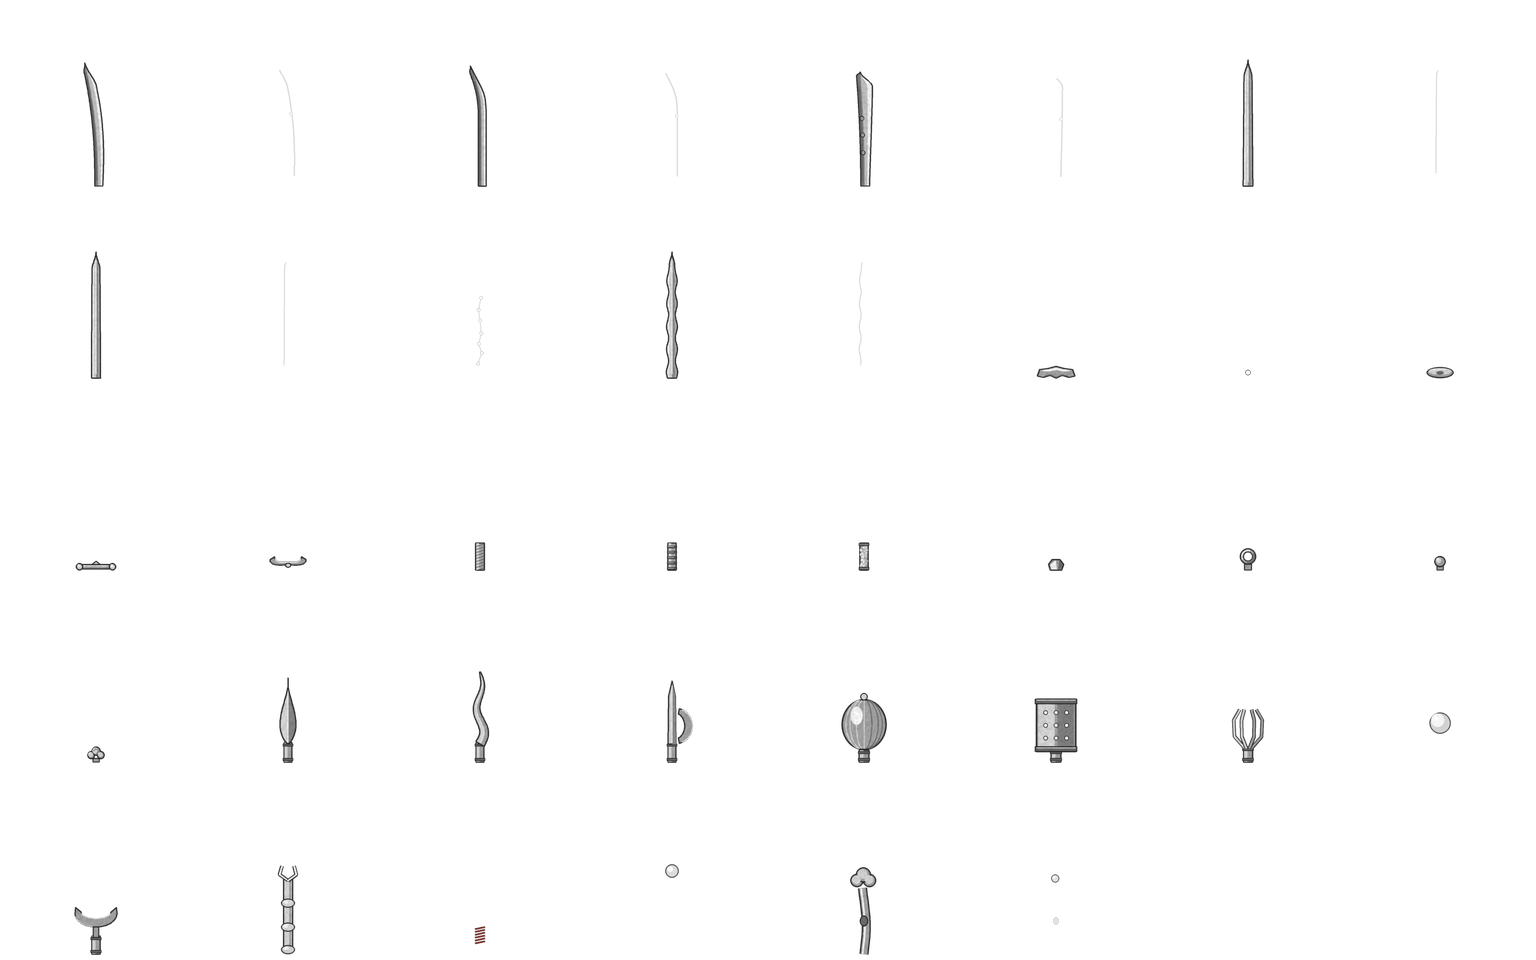
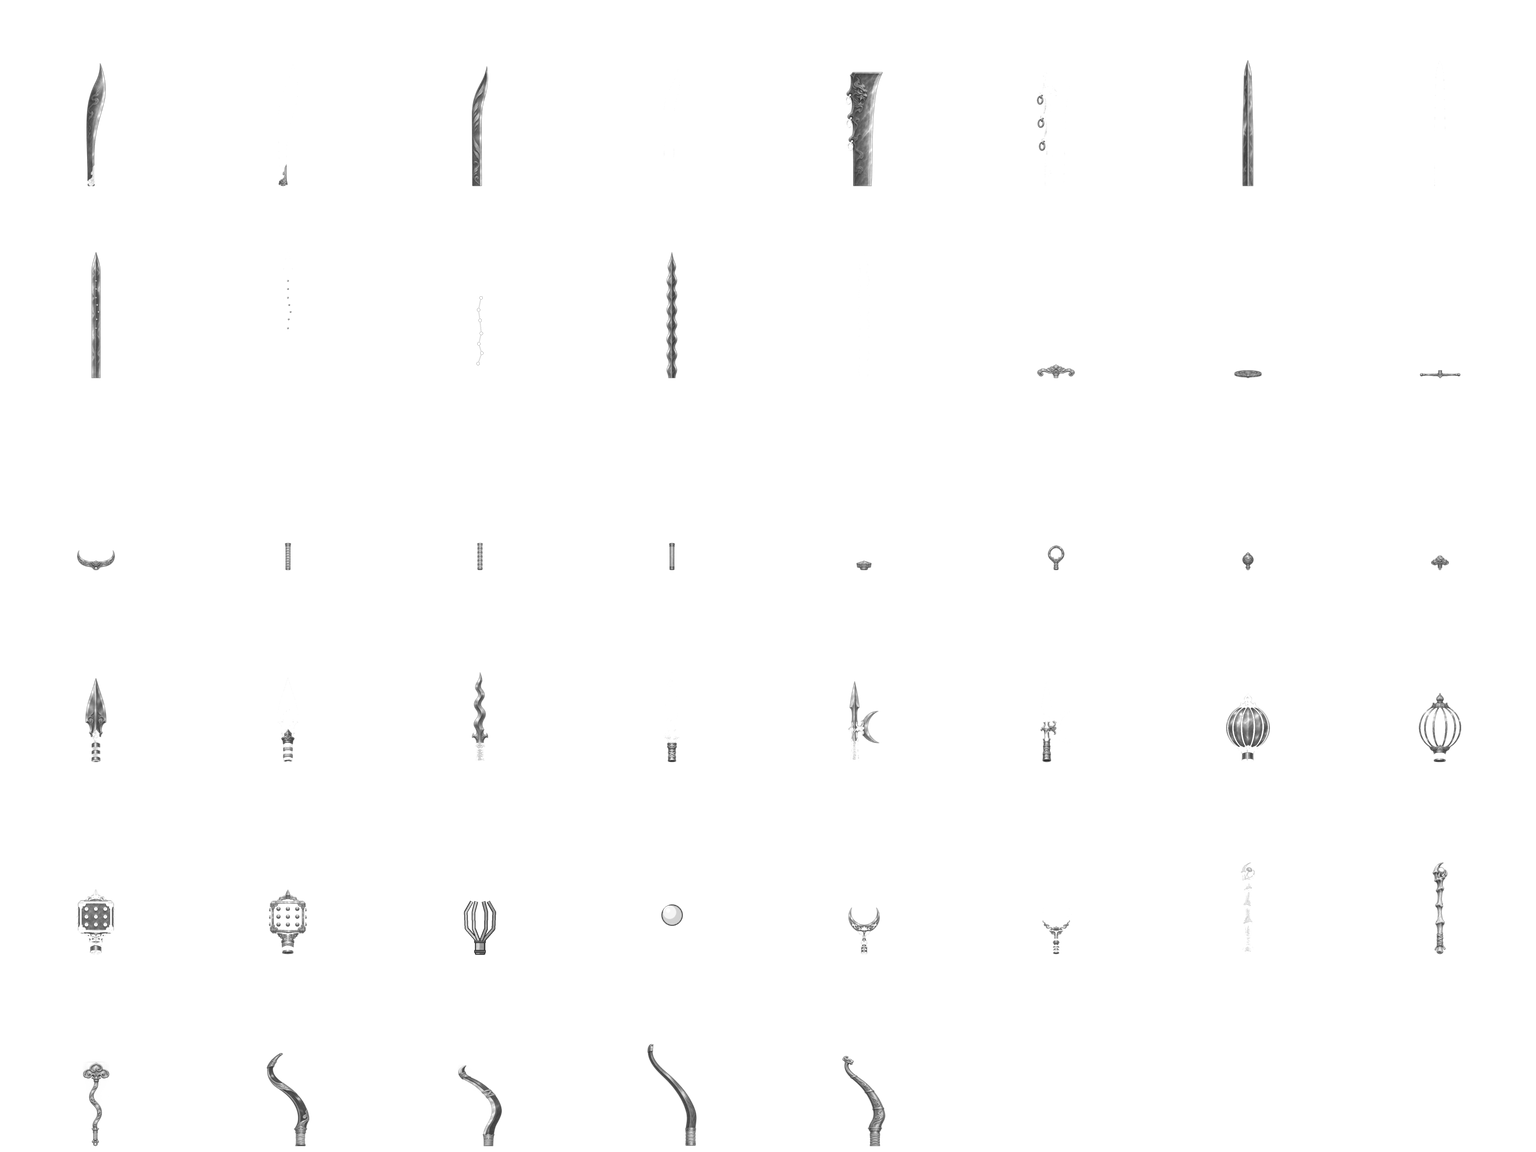
弓也由零件拼成；兵器零件换成 ChatGPT 出的原画
弓分四种弓臂：反曲弓、角弓（弓腹贴一条牛角）、长弓、云纹弓。只画上半张，下半张沿弓把镜像，
握把缠绳，弦挂在两头弓弰上；弓臂按五行上漆（木为本色、水为黑漆、火为朱漆……）。弰尖须落在
弓把后面，否则弦会跑到弓前头。原画长弓仍是选项，只合火、金两行。

29 件零件改用原画：art/side/gen_parts.sh 调 ChatGPT 桌面版自带的 codex，按 parts-prompts.json
逐件出图（走 ChatGPT 登录，不用 API key），存进 art/side/source/parts。pack_parts.py 把原画抠到边界、
切掉刃根多出的刀茎、按零件尺寸缩放（护手和柄首按宽度对齐），拉开明暗后转灰度，再按饱和度把描金
和铜箍分到饰色层，钢与金在染色后仍是两种材质。弓臂出图偏细，横向加宽。宝珠杖头要按五行发光，
仍用脚本画的；七星剑的星点照样叠在原画刃上。

diff --git a/mobile/art/side/pack_parts.py b/mobile/art/side/pack_parts.py
@@ -512,8 +512,92 @@ def wands():
     out["ruyi_wand"] = {"layers": [(pen, "trim"), (glow, "glow")], "length": 56.0, "width": 9.0, "hold": 9.0}
     return out
 
+# ---------- 弓 ----------
 
-def painted(name, spec):
+def limb(pen, bend, length, width, start, end, fill_back, fill_belly, edge=True):
+    """弓臂的一段：从握把正中往上长，bend(t) 是横向偏移（负值弯向弓弦一侧），width(t) 是半宽。
+    外侧（+u，背向射手）受光，内侧（弓腹）背光。只画 t 在 [start, end] 这一段。"""
+    cx, base = BASE
+    center = lambda t: (cx + bend(t), base - length * t)
+    t0, t1 = start, end
+    sub = lambda t: center(t0 + (t1 - t0) * t)
+    w = lambda t: width(t0 + (t1 - t0) * t)
+    lefts, rights, mids = strip(sub, w, w, 60)
+    outline = lefts + rights[::-1]
+    pen.poly(outline, fill_belly)
+    pen.poly(inset(lefts, mids, 0.1) + inset(rights, mids, 0.95)[::-1], fill_back)
+    pen.line(inset(rights, mids, 0.5)[2:-2], HIGH, 0.45)
+    if edge:
+        pen.line(outline + [outline[0]], INK, 0.7)
+    return center
+
+
+def bows():
+    cx, base = BASE
+    out = {}
+
+    def make(name, length, bend, width, ear_from, ear_width, extras=None, belly=False, likes_cloud=False):
+        body, horn, ears = Pen(), Pen(), Pen()
+        center = limb(body, bend, length, width, 0.0, ear_from + 0.02, LIGHT, MID)
+        if belly:
+            # 角弓的弓腹贴一条牛角，浅色，单独一层按骨色染。
+            limb(horn, lambda t: bend(t) - width(t) * 0.55, length, lambda t: width(t) * 0.42,
+                0.1, ear_from, HIGH, LIGHT, edge=False)
+        limb(ears, bend, length, ear_width, ear_from, 1.0, LIGHT, MID)
+        tip = center(1.0)
+        if likes_cloud:
+            # 云头弓弰：弰尖卷成一个小涡。
+            ears.ellipse((tip[0] + 1.6, tip[1] + 0.4), 2.6, 2.6, MID, INK, 0.7)
+            ears.ellipse((tip[0] + 1.6, tip[1] + 0.4), 1.2, 1.2, HIGH)
+        # 弦扣：弰尖一道刻口。
+        ears.line([(tip[0] - 1.6, tip[1] + 2.4), (tip[0] + 0.4, tip[1] + 1.4)], INK, 0.6)
+        if extras:
+            extras(body, center)
+        layers = [(body, "wood")]
+        if belly:
+            layers.append((horn, "bone"))
+        layers.append((ears, "trim"))
+        reach = max(abs(bend(i / 40)) + width(i / 40) for i in range(41)) + 3.0
+        out[name] = {"layers": layers, "length": length + 2.0, "width": reach, "tip": tip}
+
+    def bands(pen, center):
+        for t in (0.26, 0.42, 0.58):
+            x, y = center(t)
+            pen.line([(x - 3.4, y + 0.6), (x + 3.4, y - 0.6)], INK, 1.6)
+            pen.line([(x - 3.0, y + 0.6), (x + 3.0, y - 0.6)], HIGH, 0.7)
+
+    # 反曲弓：弓臂往弦一侧弯，到弓弰再往前折出去。弰尖仍得落在弓把后面（弦一侧），不然弦会跑到弓前头。
+    make("fanqu", 60.0, lambda t: -18.0 * t ** 2 + 11.0 * max(0.0, (t - 0.78) / 0.22) ** 1.8,
+        lambda t: 3.4 - 1.6 * t if t > 0.14 else 3.6, 0.78, lambda t: 1.9 - 0.8 * (t - 0.78) / 0.22)
+    # 角弓：短而反曲得狠，弓腹贴一条牛角。
+    make("jiao", 52.0, lambda t: -17.0 * t ** 2 + 11.0 * max(0.0, (t - 0.70) / 0.30) ** 1.6,
+        lambda t: 3.8 - 1.8 * t if t > 0.14 else 4.0, 0.72, lambda t: 2.0 - 0.9 * (t - 0.70) / 0.30, belly=True)
+    # 长弓：一道平平的弧，弰头只包一小截。
+    make("chang", 66.0, lambda t: -12.0 * t ** 2, lambda t: 3.0 - 1.4 * t if t > 0.12 else 3.3, 0.93,
+        lambda t: 1.7 - 0.5 * (t - 0.93) / 0.07)
+    # 云纹弓：反曲弓的身形，弓臂缠三道箍，弰头卷云。
+    make("yun", 58.0, lambda t: -16.0 * t ** 2 + 10.0 * max(0.0, (t - 0.80) / 0.20) ** 1.8,
+        lambda t: 3.5 - 1.6 * t if t > 0.14 else 3.7, 0.80, lambda t: 1.9 - 0.7 * (t - 0.80) / 0.20,
+        extras=bands, likes_cloud=True)
+    return out
+
+
+def trim_stub(art):
+    """出图常在刃根多带一截细细的刀茎，接到护手里会压在握柄上：从底往上，比刃根窄一截的行都切掉。"""
+    alpha = np.asarray(art.getchannel("A")) > 128
+    widths = alpha.sum(1)
+    rows = np.where(widths > 0)[0]
+    if rows.size == 0:
+        return art
+    lower = widths[rows[int(rows.size * 0.7)]:rows[-1] + 1]
+    reference = np.median(lower[lower > 0])
+    cut = rows[-1]
+    while cut > rows[0] and widths[cut] < reference * 0.8:
+        cut -= 1
+    return art.crop((0, 0, art.width, cut + 1))
+
+
+def painted(name, kind, spec):
     """读 source/parts/<name>.png 顶替脚本画的零件；没有就返回 None。"""
     path = HERE / "source" / "parts" / (name + ".png")
     if not path.exists():
@@ -524,20 +608,47 @@ def painted(name, spec):
         print("原画零件是空的，仍用脚本画的：%s" % path.name)
         return None
     art = art.crop(bounds)
-    height = round(spec["length"] * SCALE)
-    width = max(1, min(round(art.width * height / art.height), (SPACE - 4) * SCALE))
+    if kind == "blade":
+        art = trim_stub(art)
+    if kind in ("guard", "pommel"):
+        # 护手、柄首又扁又宽，按宽度对齐，厚度随原画；拼的时候刃和握柄按新的厚度接。
+        width = round(spec["width"] * 2 * SCALE)
+        height = max(1, round(art.height * width / art.width))
+        spec["length"] = height / SCALE
+    else:
+        height = round(spec["length"] * SCALE)
+        # 出图的弓臂都偏细，缩到游戏里只剩一根线：横向加宽一些。
+        stretch = 1.6 if kind == "bow" else 1.0
+        width = max(1, min(round(art.width * height / art.height * stretch), (SPACE - 4) * SCALE))
     art = art.resize((width, height), Image.LANCZOS)
     pixels = np.asarray(art).astype(np.float32)
     light = pixels[..., 0] * 0.2126 + pixels[..., 1] * 0.7152 + pixels[..., 2] * 0.0722
     solid = pixels[..., 3] > 128
+    # 拉开明暗：最暗的一小撮压到 60，最亮的推到 245。深色漆面（朱漆弓、黑漆杆）不拉的话，乘上漆色就只剩一团黑。
+    bottom = np.percentile(light[solid], 4) if solid.any() else 0.0
     top = np.percentile(light[solid], 99) if solid.any() else 255.0
-    light = np.clip(light * (245.0 / max(top, 1.0)), 0, 255)
-    gray_art = np.dstack([light, light, light, pixels[..., 3]]).astype(np.uint8)
-    pen = Pen()
-    pen.image.alpha_composite(Image.fromarray(gray_art), (round(BASE[0] * SCALE - width / 2), round(BASE[1] * SCALE) - height))
+    light = np.clip(60.0 + (light - bottom) * (185.0 / max(top - bottom, 1.0)), 0, 255)
+    alpha = pixels[..., 3]
+    # 钢、骨做底的零件，原画里描金、铜箍那些有色的地方分出来按饰色染，不然一件零件只剩一种材质。
+    tint = spec["layers"][0][1]
+    split = tint in ("steel", "bone")
+    if split:
+        high = pixels[..., :3].max(-1)
+        low = pixels[..., :3].min(-1)
+        saturation = (high - low) / np.maximum(high, 1.0)
+        gilt = np.clip((saturation - 0.12) / 0.12, 0.0, 1.0)
+    else:
+        gilt = np.zeros_like(light)
+    place = (round(BASE[0] * SCALE - width / 2), round(BASE[1] * SCALE) - height)
+    pens = []
+    for share in (1.0 - gilt, gilt):
+        pen = Pen()
+        layer = np.dstack([light, light, light, alpha * share]).astype(np.uint8)
+        pen.image.alpha_composite(Image.fromarray(layer), place)
+        pens.append(pen)
     spec["width"] = max(spec["width"], width / SCALE / 2)
     spec.pop("groove", None)
-    return pen
+    return [(pens[0], tint)] + ([(pens[1], "trim")] if split and gilt.max() > 0.05 else [])
 
 
 def gd_vector(point):
@@ -549,15 +660,17 @@ def main():
     parser.add_argument("--preview")
     args = parser.parse_args()
     groups = [("blade", blades()), ("guard", guards()), ("grip", grips()), ("pommel", pommels()),
-        ("head", heads()), ("wand", wands())]
+        ("head", heads()), ("wand", wands()), ("bow", bows())]
     cells = []
     table = []
     for kind, parts in groups:
         for name, spec in parts.items():
             layers = []
-            source = painted(name, spec)
+            source = painted(name, kind, spec)
             if source is not None:
-                spec["layers"] = [(source, spec["layers"][0][1])]
+                # 七星这类沿中脊的灵光点还对得上直刃，留着；别的附加层（刃口高光、宝石）随原画作废。
+                keep = [layer for layer in spec["layers"][1:] if layer[1] == "glow" and kind == "blade"]
+                spec["layers"] = source + keep
             for pen, tint in spec["layers"]:
                 if pen is None:
                     continue
@@ -575,8 +688,9 @@ def main():
         "",
         "# 由 art/side/pack_parts.py 生成，别手改。",
         "# 每格 128×128 素材空间，零件竖着画，接口在 BASE，朝上长出去。length 是沿轴长度，width 是半宽，",
-        "# groove 是血槽走线（以接口为原点、沿轴为 +y），hold 是短杖从柄尾到握点的距离。",
-        "# layers 每层是 [格序, 染色]：steel 钢色、trim 饰色、wrap 缠绳、bone 骨色、glow 灵光，空串不染。",
+        "# groove 是血槽走线（以接口为原点、沿轴为 +y），hold 是短杖从柄尾到握点的距离，tip 是弓弰挂弦处（同一坐标）。",
+        "# 弓只画上半张，下半张由游戏沿弓把镜像。",
+        "# layers 每层是 [格序, 染色]：steel 钢色、trim 饰色、wrap 缠绳、bone 骨色、wood 弓臂与杆的漆色、glow 灵光，空串不染。",
         "",
         "const SHEET = preload(\"res://art/side/weapon-parts.png\")",
         "const GRID := Vector2(%d, %d)" % (COLUMNS, rows),
@@ -588,6 +702,8 @@ def main():
             '"layers": [%s]' % ", ".join('[%d, "%s"]' % layer for layer in layers)]
         if "groove" in spec:
             fields.append('"groove": [%s]' % ", ".join(gd_vector(p) for p in spec["groove"]))
+        if "tip" in spec:
+            fields.append('"tip": %s' % gd_vector(spec["tip"]))
         if "hold" in spec:
             fields.append('"hold": %.1f' % spec["hold"])
         lines.append('\t"%s": {%s},' % (name, ", ".join(fields)))

diff --git a/README.md b/README.md
@@ -79,7 +79,7 @@
 
 手持兵器有八种形制：长刃、长剑、双刀、长枪、重锤、长弓、法杖、短杖。兵器原画由 [pack_weapons.py](mobile/art/side/pack_weapons.py) 从法器原画里抠出（长剑是脚本按同一套配色画的），握点和朝向定义在 [held_weapon.gd](mobile/scripts/held_weapon.gd)，沿握点绘制后再把握拳的那只手盖回柄前。待机一律用直立的那一格，兵器握在靠镜头的右手（人物朝右，身前那只拳是远侧的左手），单手垂在身侧：刀剑刃尖斜指前方地面，锤头垂到脚边，杖和枪竖着拄地，弓和短杖斜提。长剑一轮两剑；长枪出手慢、够得最远，一枪扎穿一路；短杖是法杖的轻便版，出手快、射程近。炉坊与行装里的形制图标出自同一批原画。 [侧视素材与生成提示词](mobile/art/side/prompts.json)
 
-每件兵器有自己的样子：刀剑由刃、护手、握柄、柄首加一挂穗子拼成，长柄兵器换杆头和杆色，短杖整根换。[weapon_design.gd](mobile/scripts/weapon_design.gd) 按这件装备的主行挑刃形或杆头、按次行挑护手和穗色、按阴阳定钢色深浅和缠绳冷暖，功率够足的刃上亮一道灵光血槽，再用 uid 在合乎五行的几样里定下一样，所以同一件装备永远是同一个样子，两把同行的刀也未必一样。原画兵器也是选项之一，按它的配色只在两行里出现；弓目前只有原画。行装、背包和炉坊的兵器格画的就是拼好的这一件。零件由 [pack_parts.py](mobile/art/side/pack_parts.py) 画成灰度出图，游戏里按五行乘色；把原画零件放进 `art/side/source/parts/<零件名>.png` 再跑一遍脚本，就会顶替同名的脚本零件，出图规格见 [parts-prompts.json](mobile/art/side/parts-prompts.json)。
+每件兵器有自己的样子：刀剑由刃、护手、握柄、柄首加一挂穗子拼成，长柄兵器换杆头和杆色，短杖整根换，弓是上半张弓臂镜像出下半张、握把缠绳，弓臂按杆色上漆。[weapon_design.gd](mobile/scripts/weapon_design.gd) 按这件装备的主行挑刃形或杆头、按次行挑护手和穗色、按阴阳定钢色深浅和缠绳冷暖，功率够足的刃上亮一道灵光血槽，再用 uid 在合乎五行的几样里定下一样，所以同一件装备永远是同一个样子，两把同行的刀也未必一样。原画兵器也是选项之一，按它的配色只在两行里出现。行装、背包和炉坊的兵器格画的就是拼好的这一件。零件由 [pack_parts.py](mobile/art/side/pack_parts.py) 画成灰度出图，游戏里按五行乘色；把原画零件放进 `art/side/source/parts/<零件名>.png` 再跑一遍脚本，就会顶替同名的脚本零件，出图规格见 [parts-prompts.json](mobile/art/side/parts-prompts.json)。[gen_parts.sh](mobile/art/side/gen_parts.sh) 用 ChatGPT 桌面版自带的 codex 按这份提示词逐件出图（走 ChatGPT 登录，不要 API key）；要按五行发光的宝珠杖头仍用脚本画的，七星剑的星点在原画刃上照样叠一层灵光。
 
 精怪各用一张 4 列 × 3 行的图集（四步走、起手、挥击、收招、待机、四格倒地），每格的逻辑尺寸是 160 × 96，定义在 [monster_art.gd](mobile/scripts/monster_art.gd)。原图是像素画，[pack_monsters.py](mobile/art/side/pack_monsters.py) 用带容差的 EPX 把锯齿补圆后放大到 3 倍，和人物一样走线性取样；贴图按需加载，只留最近用到的两张。这一步只解决「粗」，细节没有变多——有了真正的高清十二格原画，放进 [art/side/source/monsters](mobile/art/side/source/monsters) 重跑脚本即可。
 
